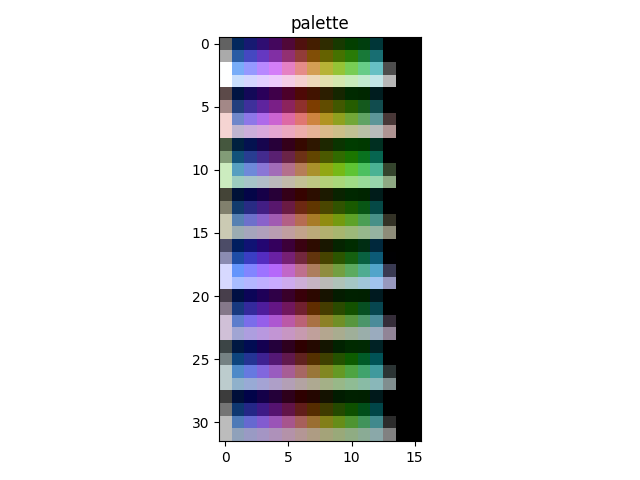
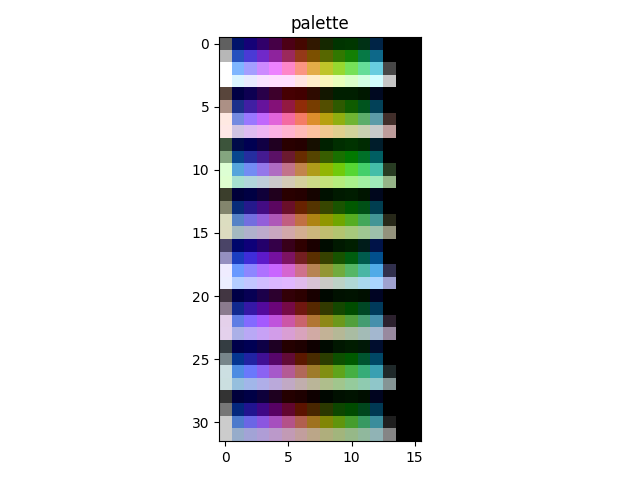
Update README

diff --git a/palgen-persune.py b/palgen-persune.py
@@ -45,8 +45,8 @@ signal_table = np.array([
 ], np.float64)
 
 # signal buffer normalization
-signal_black_point = signal_table[1, 1, 0]
-signal_white_point = signal_table[3, 0, 0]
+signal_black_point = signal_table[1, 1, 0] + 7.5/140
+signal_white_point = signal_table[1, 1, 0] + 100/140
 amplification_factor = 1/(signal_white_point - signal_black_point)
 
 # B-Y and R-Y reduction factors
@@ -130,6 +130,10 @@ parser.add_argument(
     type = np.float64,
     help = "differential phase distortion, in degrees",
     default = -5.0)
+parser.add_argument(
+    "--white-ire",
+    type = np.float64,
+    help = "differential phase distortion, in degrees",)
 
 args = parser.parse_args()
 
@@ -169,7 +173,7 @@ for emphasis in range(8):
             if (args.debug):
                 print("${0:02X} emphasis {1:03b}".format((luma<<4 | hue), emphasis) + "\n" + str(voltage_buffer))
             if (args.verbose):
-                plt.title("${0:02X} emphasis pattern {1:012b}".format((luma<<4 | hue), emphasis_wave))
+                plt.title("${0:02X} emphasis {1:03b}".format((luma<<4 | hue), emphasis))
                 x = np.arange(0,12)
                 y = voltage_buffer
                 plt.xlabel("Sample count")

diff --git a/README.md b/README.md
@@ -6,12 +6,13 @@ yet another NES palette generator, in Python
 
 ## Requirements
 
-This script requires `colour` and `numpy` for color decoding.
+This script requires `numpy` for color decoding.
 This script requires `matplotlib.pyplot` for previewing
 
 ## Usage
-```python
-usage: palgen-persune.py [-h] [-o OUTPUT] [-e] [-v] [-d]
+```
+usage: palgen-persune.py [-h] [-o OUTPUT] [-e] [-v] [-d] [--brightness BRIGHTNESS] [--contrast CONTRAST] [--hue HUE] [--saturation SATURATION]
+                         [--phase-skew PHASE_SKEW] [--white-ire WHITE_IRE]
 
 yet another NES palette generator
 
@@ -22,11 +23,21 @@ options:
   -e, --emphasis        add emphasis entries
   -v, --verbose         look at waveforms
   -d, --debug           debug messages
+  --brightness BRIGHTNESS
+                        brightness, -1.0 to 1.0
+  --contrast CONTRAST   contrast, 0.0 to 1.0
+  --hue HUE             hue angle, in degrees
+  --saturation SATURATION
+                        saturation, -1.0 to 1.0
+  --phase-skew PHASE_SKEW
+                        differential phase distortion, in degrees
+  --white-ire WHITE_IRE
+                        differential phase distortion, in degrees
 
-version 0.0.0
+version 0.0.1
 ```
 
-## Licence
+## License
 
 This work is licensed under the MIT-0 license.
 Copyright (C) Persune 2023.
